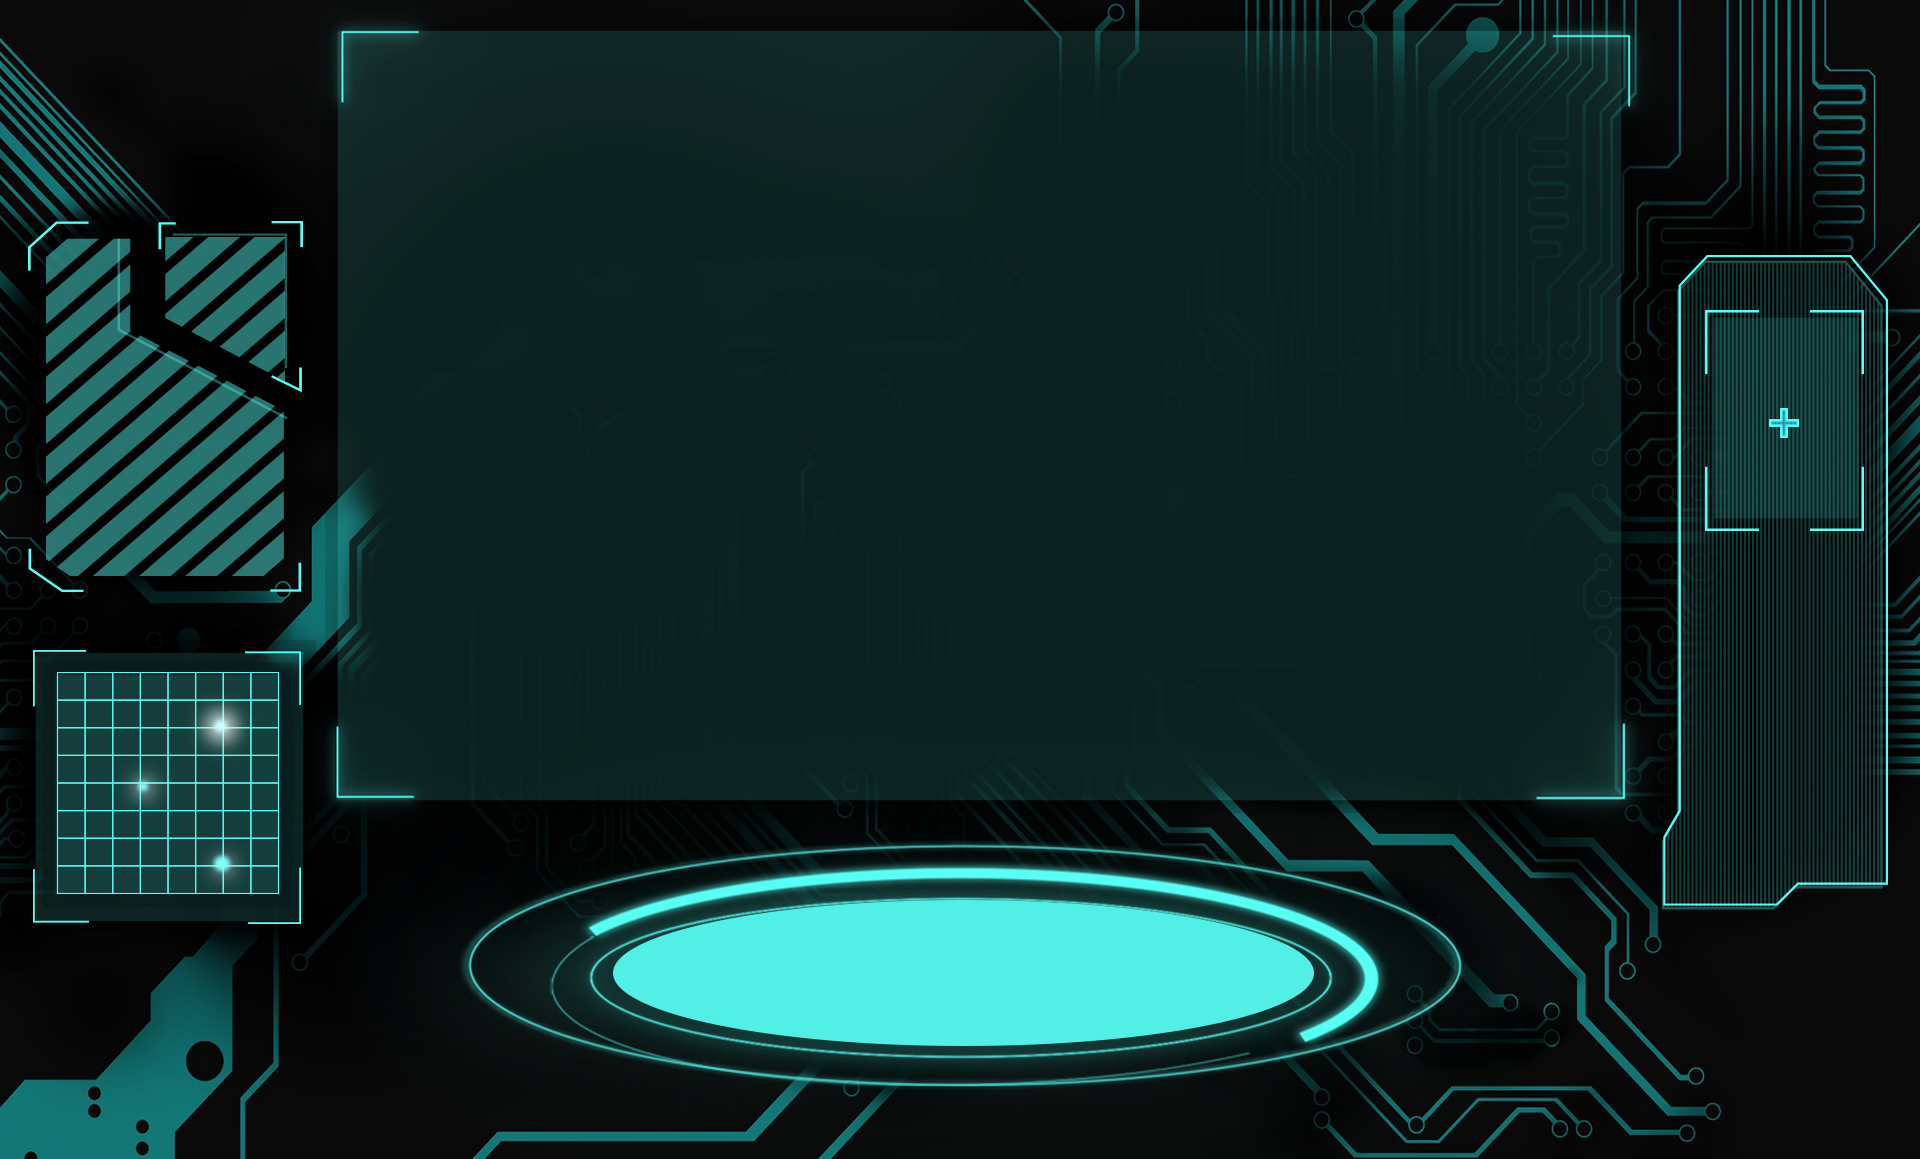
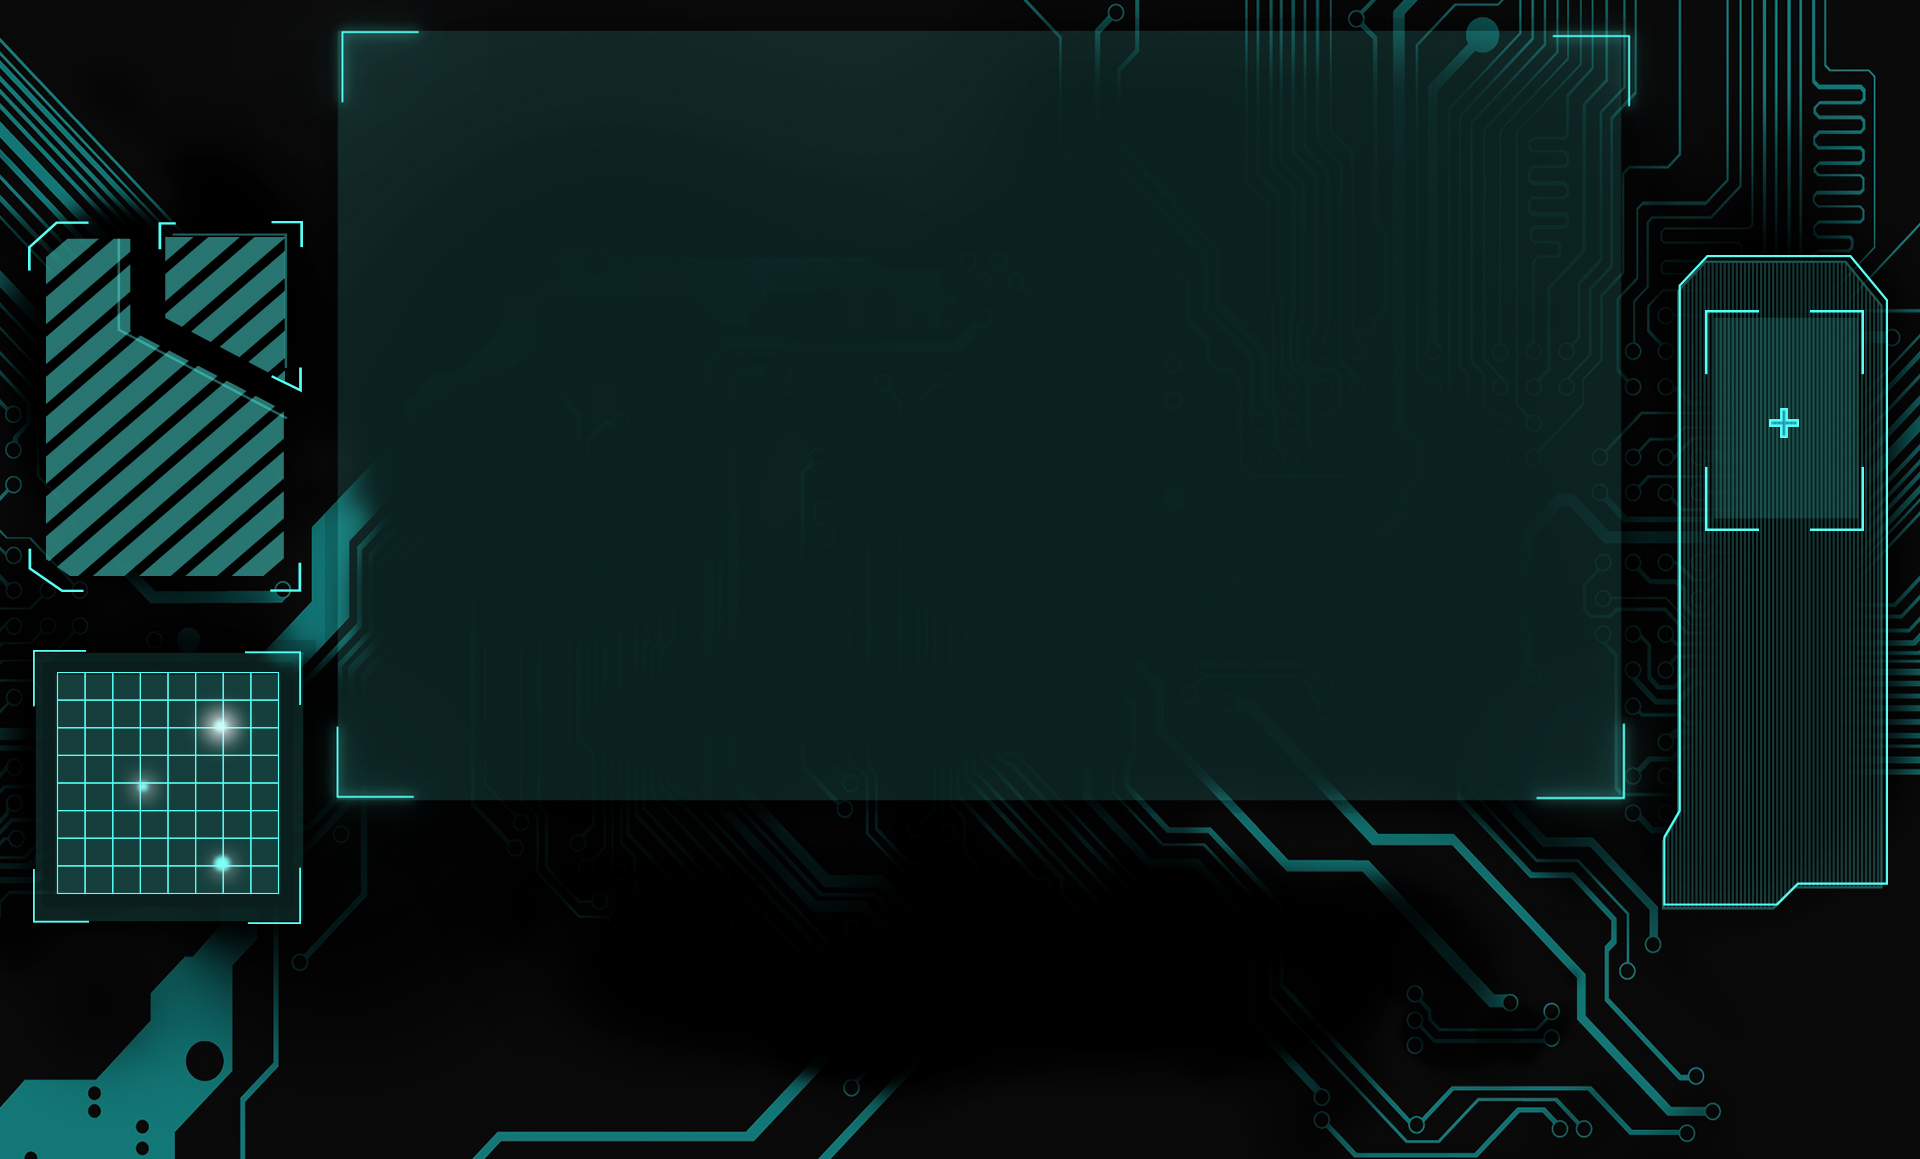
feat:下方圓盤動畫/左下光點動畫

Changed region(s): [[0.2188, 0.7144, 0.7812, 0.9629]]

diff --git a/src/sass/page/_index.scss b/src/sass/page/_index.scss
@@ -205,8 +205,64 @@
 // }
 
 
+// 下方圓盤
+.index_block {
+    .index_disk {
+        width: 90vw;
+        @include absolute( auto, 2vw, -1vw, auto);
+        // transform: translateY(10px);
+        animation: diskMove 1s ease-in-out 1s infinite;
+    }
+}
 
+@keyframes diskMove {
+    0% {
+        transform: translateY(0);
+    }
+    50% {
+        transform: translateY(2vw);
+    }
+    100% {
+        transform: translateY(0);
+    }
+}
 
+.index_block{
+    .index_dark_point1 {
+        background-color: #153e3c;
+        width: 2.5vw;
+        height: 2.5vw;
+        border-radius: 50%;
+        @include absolute(auto, auto, 18.7vw, 6.6vw);
+        animation: mask 1s linear 1.5s infinite;
+    }
+    .index_dark_point2 {
+        background-color: #153e3c;
+        width: 2.5vw;
+        height: 2.5vw;
+        border-radius: 50%;
+        @include absolute(auto, auto, 21.3vw, 10.4vw);
+        animation: mask 1s linear 1.5s infinite;
+    }
+    .index_dark_point3 {
+        background-color: #153e3c;
+        width: 2.5vw;
+        height: 2.5vw;
+        border-radius: 50%;
+        @include absolute(auto, auto, 14.1vw, 10.3vw);
+        animation: mask 1s linear 1.5s infinite;
+    }
+
+}
+
+@keyframes mask {
+    0% {
+        opacity: 1;
+    }
+    100% {
+        opacity: 0;
+    }
+}
 
 
 // 輪播設定
@@ -452,10 +508,23 @@
         @include absolute (auto, auto, 20vw, 23vw);
         transform: rotate(90deg);    
     }
+
+    .index_block {
+        .index_disk {
+            display: none;
+        }
+    }
+
+    .index_block{
+        .index_dark_point1, .index_dark_point2, .index_dark_point3 {
+            display: none;
+        }
+    }
+    
+    
         
 
     .index_block{
-
         .index_title {
             margin-top: 20%;
 

diff --git a/src/index.html b/src/index.html
@@ -41,7 +41,7 @@
     <!-- content，各自頁面的html寫在這邊以下都是範例 -->
     <main>
         <div class="index_block">
-            <!-- <div data-depth="0.2"> -->
+            <!-- 右側進度條跳動 -->
                 <img src="./img/index/011.jpg" class="-margin0auto index_bcg_desktop">
                 <div class="index_right_side">
                     <img src="./img/index/123.png" class="index_bar_img1">
@@ -61,13 +61,19 @@
                 <div class="index_right_side">
                     <img src="./img/index/321.png" class="index_bar_img6">
                 </div>
+
+                <!-- 下方圓盤 -->
+                <img src="./img/index/04.png" class="index_disk">
+
+                <!-- 左下暗點 -->
+                <span class="index_dark_point1"></span>
+                <span class="index_dark_point2"></span>
+                <span class="index_dark_point3"></span>
+
+
                 <!-- mobile背景 -->
                 <img src="./img/index/031.jpg" class="=margin0auto index_bcg_mobile">
-            <!-- </div> -->
-            <!-- <div data-depth="0.6">
-                <img src="./img/index/01.jpg" class="-margin0auto index_bcg_desktop">
-                <img src="./img/index/03.jpg" class="=margin0auto index_bcg_mobile">
-            </div> -->
+
 
             <div class="index_title">
                 <h1 class="main-color" data-spotlight="Tián lám 2022 智慧全球科技聚策展！">
